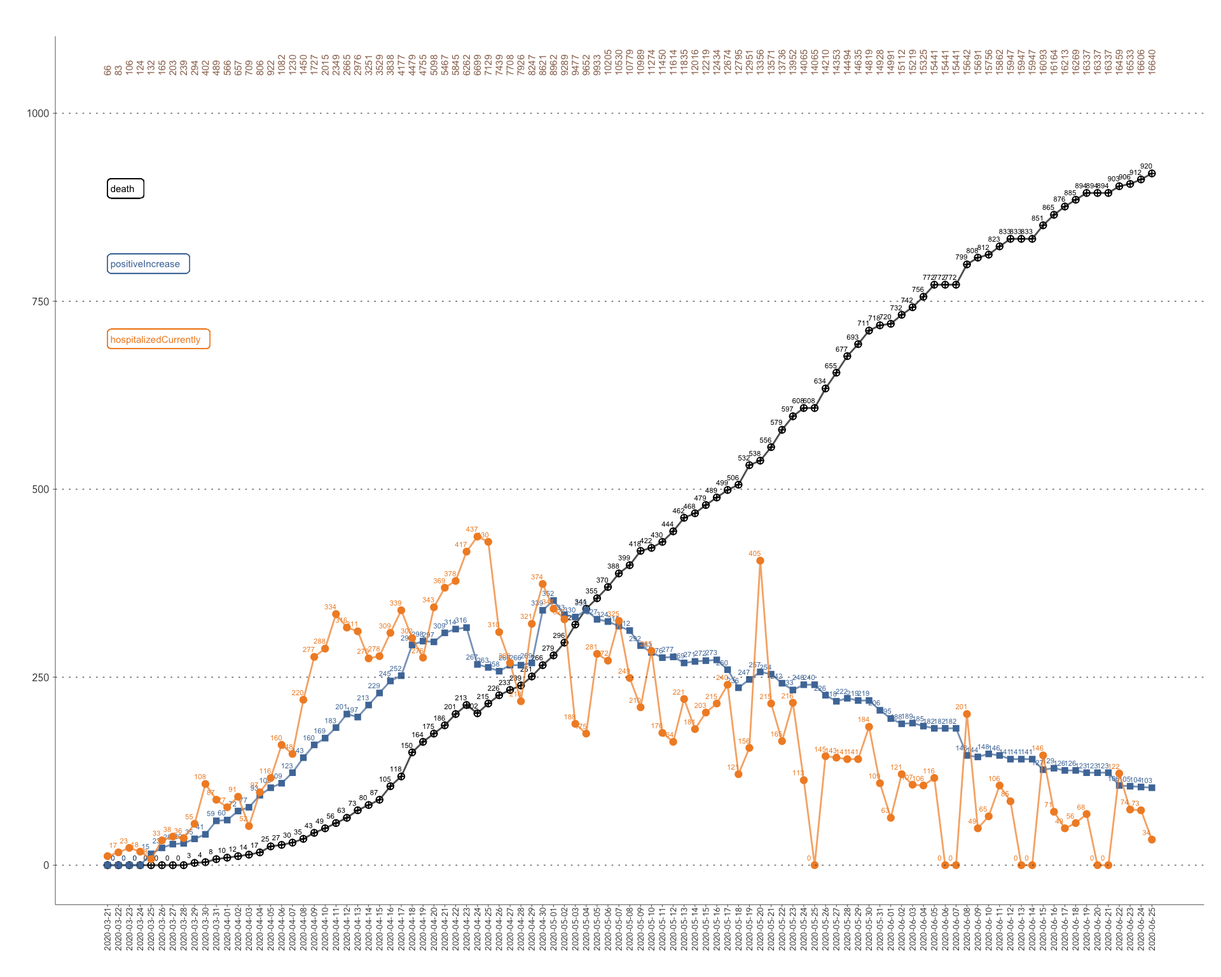
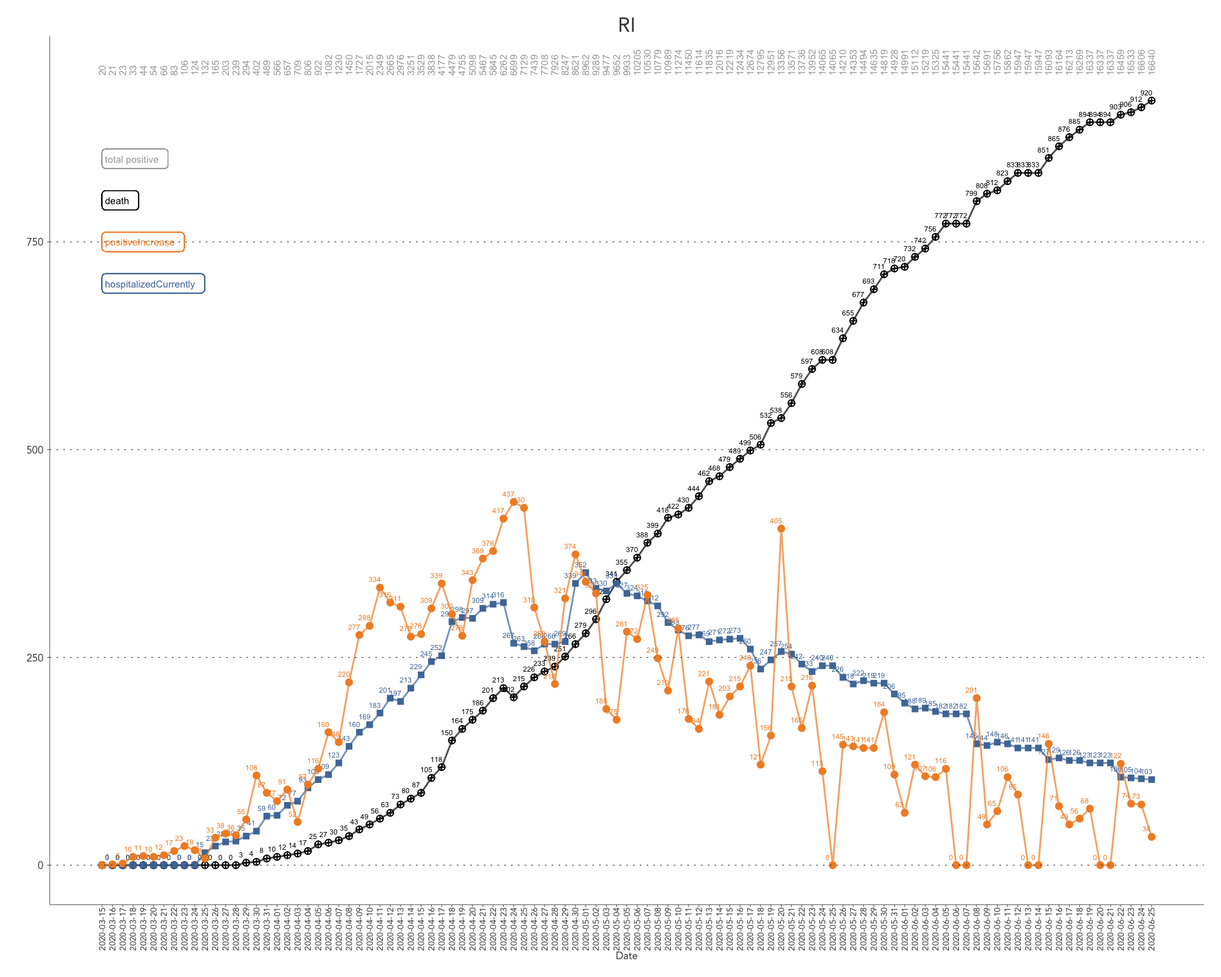
update figures; fixed RI color

diff --git a/covid19-vis.html b/covid19-vis.html
@@ -127,10 +127,10 @@ $(document).ready(function () {
       <li><a href="#us---all-states">US - all states</a></li>
       <li><a href="#us---positiveincrease-by-state">US - positiveIncrease by state</a></li>
       <li><a href="#us---hospitalizedcurrently-by-state">US - hospitalizedCurrently by state</a></li>
-      <li><a href="#testpositiverate-against-testedpopulationrate">TestPositiveRate against TestedPopulationRate</a></li>
-      <li><a href="#death-per-million">Death per million</a></li>
-      <li><a href="#positive-per-1000">Positive per 1000</a></li>
-      <li><a href="#tested-amount">Tested amount</a></li>
+      <li><a href="#us---testpositiverate-against-testedpopulationrate">US - testPositiveRate against testedPopulationRate</a></li>
+      <li><a href="#us---death-per-10k-by-state">US - death per 10k by state</a></li>
+      <li><a href="#us---positive-per-1k-by-state">US - positive per 1k by state</a></li>
+      <li><a href="#us---tested-amount-by-state">US - tested amount by state</a></li>
       </ul>
     </div>
     
@@ -173,7 +173,7 @@ $(document).ready(function () {
 <span id="cb1-22"><a href="#cb1-22"></a><span class="st">               </span><span class="kw">mutate</span>(<span class="dt">date =</span> <span class="kw">as.Date</span>(<span class="kw">as.character</span>(date), <span class="st">&quot;%Y%m%d&quot;</span>))</span>
 <span id="cb1-23"><a href="#cb1-23"></a></span>
 <span id="cb1-24"><a href="#cb1-24"></a>tableau10 &lt;-<span class="st"> </span><span class="kw">as.list</span>(ggthemes_data[[<span class="st">&quot;tableau&quot;</span>]][[<span class="st">&quot;color-palettes&quot;</span>]][[<span class="st">&quot;regular&quot;</span>]][[<span class="dv">1</span>]][,<span class="dv">2</span>])<span class="op">$</span>value</span>
-<span id="cb1-25"><a href="#cb1-25"></a>first_day &lt;-<span class="st"> </span><span class="kw">as.Date</span>(<span class="st">&quot;2020-03-21&quot;</span>) <span class="co"># to select a dat</span></span>
+<span id="cb1-25"><a href="#cb1-25"></a>first_day &lt;-<span class="st"> </span><span class="kw">as.Date</span>(<span class="st">&quot;2020-03-15&quot;</span>) <span class="co"># to select a dat</span></span>
 <span id="cb1-26"><a href="#cb1-26"></a>today &lt;-<span class="st">  </span><span class="kw">as.Date</span>(<span class="kw">toString</span>(<span class="kw">max</span>(df_states<span class="op">$</span>date)))</span>
 <span id="cb1-27"><a href="#cb1-27"></a>  </span>
 <span id="cb1-28"><a href="#cb1-28"></a><span class="kw">kable</span>(<span class="kw">head</span>(df_states, <span class="dt">n =</span> <span class="dv">3</span>))</span></code></pre></div>
@@ -675,39 +675,42 @@ A
 <h2>Rhode Island (as I live in RI now)</h2>
 <div class="sourceCode" id="cb2"><pre class="sourceCode r"><code class="sourceCode r"><span id="cb2-1"><a href="#cb2-1"></a>df_states <span class="op">%&gt;%</span><span class="st"> </span><span class="kw">filter</span>(state <span class="op">==</span><span class="st"> &quot;RI&quot;</span>) <span class="op">%&gt;%</span></span>
 <span id="cb2-2"><a href="#cb2-2"></a><span class="st">    </span><span class="kw">ggplot</span>() <span class="op">%&gt;%</span></span>
-<span id="cb2-3"><a href="#cb2-3"></a><span class="st">    </span><span class="op">+</span><span class="st"> </span><span class="kw">geom_label</span>(<span class="dt">x =</span> first_day, <span class="dt">y =</span> <span class="dv">900</span>, <span class="dt">color =</span> <span class="st">&quot;black&quot;</span>, <span class="dt">label =</span> <span class="st">&quot;death&quot;</span>, <span class="dt">size =</span> <span class="dv">2</span>, <span class="dt">hjust =</span> <span class="dv">0</span>) <span class="op">%&gt;%</span></span>
-<span id="cb2-4"><a href="#cb2-4"></a><span class="st">    </span><span class="op">+</span><span class="st"> </span><span class="kw">geom_label</span>(<span class="dt">x =</span> first_day, <span class="dt">y =</span> <span class="dv">800</span>, <span class="dt">color =</span> tableau10[<span class="dv">1</span>], <span class="dt">label =</span> <span class="st">&quot;positiveIncrease&quot;</span>, <span class="dt">size =</span> <span class="dv">2</span>, <span class="dt">hjust =</span> <span class="dv">0</span>) <span class="op">%&gt;%</span></span>
-<span id="cb2-5"><a href="#cb2-5"></a><span class="st">    </span><span class="op">+</span><span class="st"> </span><span class="kw">geom_label</span>(<span class="dt">x =</span> first_day, <span class="dt">y =</span> <span class="dv">700</span>, <span class="dt">color =</span> tableau10[<span class="dv">2</span>], <span class="dt">label =</span> <span class="st">&quot;hospitalizedCurrently&quot;</span>, <span class="dt">size =</span> <span class="dv">2</span>, <span class="dt">hjust =</span> <span class="dv">0</span>) <span class="op">%&gt;%</span></span>
-<span id="cb2-6"><a href="#cb2-6"></a><span class="st">    </span><span class="op">+</span><span class="st"> </span><span class="kw">geom_text</span>(<span class="dt">mapping =</span> <span class="kw">aes</span>(<span class="dt">x =</span> date, <span class="dt">y =</span> <span class="dv">1050</span>, <span class="dt">label =</span> positive), <span class="dt">color =</span> tableau10[<span class="dv">9</span>], <span class="dt">size =</span> <span class="dv">2</span>, <span class="dt">angle =</span> <span class="dv">90</span>, <span class="dt">hjust =</span> <span class="dv">0</span>) <span class="op">%&gt;%</span></span>
-<span id="cb2-7"><a href="#cb2-7"></a><span class="st">    </span><span class="op">+</span><span class="st"> </span><span class="kw">geom_line</span>(<span class="dt">mapping =</span> <span class="kw">aes</span>(<span class="dt">x =</span> date, <span class="dt">y =</span> death), <span class="dt">alpha =</span> <span class="fl">0.7</span>, <span class="dt">color =</span> <span class="st">&quot;black&quot;</span>, <span class="dt">size =</span> LINE_SIZE) <span class="op">%&gt;%</span></span>
-<span id="cb2-8"><a href="#cb2-8"></a><span class="st">    </span><span class="op">+</span><span class="st"> </span><span class="kw">geom_text</span>(<span class="dt">mapping =</span> <span class="kw">aes</span>(<span class="dt">x =</span> date <span class="op">-</span><span class="st"> </span><span class="fl">0.5</span>, <span class="dt">y =</span> death <span class="op">+</span><span class="st"> </span><span class="dv">10</span>, <span class="dt">label =</span> death), <span class="dt">color =</span> <span class="st">&quot;black&quot;</span>, <span class="dt">size =</span> <span class="fl">1.5</span>) <span class="op">%&gt;%</span></span>
-<span id="cb2-9"><a href="#cb2-9"></a><span class="st">    </span><span class="op">+</span><span class="st"> </span><span class="kw">geom_point</span>(<span class="dt">mapping =</span> <span class="kw">aes</span>(<span class="dt">x =</span> date, <span class="dt">y =</span> death), <span class="dt">color =</span> <span class="st">&quot;black&quot;</span>, <span class="dt">shape =</span> <span class="dv">10</span>) <span class="op">%&gt;%</span></span>
-<span id="cb2-10"><a href="#cb2-10"></a><span class="st">    </span><span class="op">+</span><span class="st"> </span><span class="kw">geom_line</span>(<span class="dt">mapping =</span> <span class="kw">aes</span>(<span class="dt">x =</span> date, <span class="dt">y =</span> hospitalizedCurrently), <span class="dt">alpha =</span> <span class="fl">0.7</span>, <span class="dt">color =</span> tableau10[<span class="dv">1</span>], <span class="dt">size =</span> LINE_SIZE) <span class="op">%&gt;%</span></span>
-<span id="cb2-11"><a href="#cb2-11"></a><span class="st">    </span><span class="op">+</span><span class="st"> </span><span class="kw">geom_text</span>(<span class="dt">mapping =</span> <span class="kw">aes</span>(<span class="dt">x =</span> date <span class="op">-</span><span class="st"> </span><span class="fl">0.5</span>, <span class="dt">y =</span> hospitalizedCurrently <span class="op">+</span><span class="st"> </span><span class="dv">10</span>, <span class="dt">label =</span> hospitalizedCurrently), <span class="dt">color =</span>  tableau10[<span class="dv">1</span>], <span class="dt">size =</span> <span class="fl">1.5</span>) <span class="op">%&gt;%</span></span>
-<span id="cb2-12"><a href="#cb2-12"></a><span class="st">    </span><span class="op">+</span><span class="st"> </span><span class="kw">geom_point</span>(<span class="dt">mapping =</span> <span class="kw">aes</span>(<span class="dt">x =</span> date, <span class="dt">y =</span> hospitalizedCurrently), <span class="dt">color =</span> tableau10[<span class="dv">1</span>], <span class="dt">shape =</span> <span class="dv">15</span>) <span class="op">%&gt;%</span></span>
-<span id="cb2-13"><a href="#cb2-13"></a><span class="st">    </span><span class="op">+</span><span class="st"> </span><span class="kw">geom_line</span>(<span class="dt">mapping =</span> <span class="kw">aes</span>(<span class="dt">x =</span> date, <span class="dt">y =</span> positiveIncrease), <span class="dt">alpha =</span> <span class="fl">0.7</span>, <span class="dt">color =</span> tableau10[<span class="dv">2</span>], <span class="dt">size =</span> LINE_SIZE) <span class="op">%&gt;%</span></span>
-<span id="cb2-14"><a href="#cb2-14"></a><span class="st">    </span><span class="op">+</span><span class="st"> </span><span class="kw">geom_text</span>(<span class="dt">mapping =</span> <span class="kw">aes</span>(<span class="dt">x =</span> date <span class="op">-</span><span class="st"> </span><span class="fl">0.5</span>, <span class="dt">y =</span> positiveIncrease <span class="op">+</span><span class="st"> </span><span class="dv">10</span>, <span class="dt">label =</span> positiveIncrease), <span class="dt">color =</span>  tableau10[<span class="dv">2</span>], <span class="dt">size =</span> <span class="fl">1.5</span>) <span class="op">%&gt;%</span></span>
-<span id="cb2-15"><a href="#cb2-15"></a><span class="st">    </span><span class="op">+</span><span class="st"> </span><span class="kw">geom_point</span>(<span class="dt">mapping =</span> <span class="kw">aes</span>(<span class="dt">x =</span> date, <span class="dt">y =</span> positiveIncrease), <span class="dt">color =</span> tableau10[<span class="dv">2</span>]) <span class="op">%&gt;%</span></span>
-<span id="cb2-16"><a href="#cb2-16"></a><span class="st">    </span><span class="op">+</span><span class="st"> </span><span class="kw">scale_x_date</span>(<span class="dt">limits =</span> <span class="kw">c</span>(first_day, today), <span class="dt">breaks =</span> <span class="kw">seq</span>(first_day, today, <span class="dt">by =</span> <span class="st">&quot;day&quot;</span>)) <span class="op">%&gt;%</span></span>
-<span id="cb2-17"><a href="#cb2-17"></a><span class="st">    </span><span class="op">+</span><span class="st"> </span><span class="kw">xlab</span>(<span class="st">&quot;Date&quot;</span>) <span class="op">+</span><span class="st"> </span><span class="kw">ylab</span>(<span class="st">&quot;&quot;</span>) <span class="op">+</span><span class="st"> </span><span class="kw">ggtitle</span>(<span class="st">&quot;RI&quot;</span>)</span></code></pre></div>
+<span id="cb2-3"><a href="#cb2-3"></a><span class="st">    </span><span class="op">+</span><span class="st"> </span><span class="kw">geom_label</span>(<span class="dt">x =</span> first_day, <span class="dt">y =</span> <span class="dv">850</span>, <span class="dt">color =</span> <span class="st">&quot;darkgray&quot;</span>, <span class="dt">label =</span> <span class="st">&quot;total positive&quot;</span>, <span class="dt">size =</span> <span class="dv">2</span>, <span class="dt">hjust =</span> <span class="dv">0</span>) <span class="op">%&gt;%</span></span>
+<span id="cb2-4"><a href="#cb2-4"></a><span class="st">    </span><span class="op">+</span><span class="st"> </span><span class="kw">geom_text</span>(<span class="dt">mapping =</span> <span class="kw">aes</span>(<span class="dt">x =</span> date, <span class="dt">y =</span> <span class="dv">950</span>, <span class="dt">label =</span> positive), <span class="dt">color =</span> <span class="st">&quot;darkgray&quot;</span>, <span class="dt">size =</span> <span class="dv">2</span>, <span class="dt">angle =</span> <span class="dv">90</span>, <span class="dt">hjust =</span> <span class="dv">0</span>) <span class="op">%&gt;%</span></span>
+<span id="cb2-5"><a href="#cb2-5"></a><span class="st">    </span><span class="op">+</span><span class="st"> </span><span class="kw">geom_label</span>(<span class="dt">x =</span> first_day, <span class="dt">y =</span> <span class="dv">800</span>, <span class="dt">color =</span> <span class="st">&quot;black&quot;</span>, <span class="dt">label =</span> <span class="st">&quot;death&quot;</span>, <span class="dt">size =</span> <span class="dv">2</span>, <span class="dt">hjust =</span> <span class="dv">0</span>) <span class="op">%&gt;%</span></span>
+<span id="cb2-6"><a href="#cb2-6"></a><span class="st">    </span><span class="op">+</span><span class="st"> </span><span class="kw">geom_label</span>(<span class="dt">x =</span> first_day, <span class="dt">y =</span> <span class="dv">750</span>, <span class="dt">color =</span> tableau10[<span class="dv">2</span>], <span class="dt">label =</span> <span class="st">&quot;positiveIncrease&quot;</span>, <span class="dt">size =</span> <span class="dv">2</span>, <span class="dt">hjust =</span> <span class="dv">0</span>) <span class="op">%&gt;%</span></span>
+<span id="cb2-7"><a href="#cb2-7"></a><span class="st">    </span><span class="op">+</span><span class="st"> </span><span class="kw">geom_label</span>(<span class="dt">x =</span> first_day, <span class="dt">y =</span> <span class="dv">700</span>, <span class="dt">color =</span> tableau10[<span class="dv">1</span>], <span class="dt">label =</span> <span class="st">&quot;hospitalizedCurrently&quot;</span>, <span class="dt">size =</span> <span class="dv">2</span>, <span class="dt">hjust =</span> <span class="dv">0</span>) <span class="op">%&gt;%</span></span>
+<span id="cb2-8"><a href="#cb2-8"></a><span class="st">    </span><span class="op">+</span><span class="st"> </span><span class="kw">geom_line</span>(<span class="dt">mapping =</span> <span class="kw">aes</span>(<span class="dt">x =</span> date, <span class="dt">y =</span> death), <span class="dt">alpha =</span> <span class="fl">0.7</span>, <span class="dt">color =</span> <span class="st">&quot;black&quot;</span>, <span class="dt">size =</span> LINE_SIZE) <span class="op">%&gt;%</span></span>
+<span id="cb2-9"><a href="#cb2-9"></a><span class="st">    </span><span class="op">+</span><span class="st"> </span><span class="kw">geom_text</span>(<span class="dt">mapping =</span> <span class="kw">aes</span>(<span class="dt">x =</span> date <span class="op">-</span><span class="st"> </span><span class="fl">0.5</span>, <span class="dt">y =</span> death <span class="op">+</span><span class="st"> </span><span class="dv">10</span>, <span class="dt">label =</span> death), <span class="dt">color =</span> <span class="st">&quot;black&quot;</span>, <span class="dt">size =</span> <span class="fl">1.5</span>) <span class="op">%&gt;%</span></span>
+<span id="cb2-10"><a href="#cb2-10"></a><span class="st">    </span><span class="op">+</span><span class="st"> </span><span class="kw">geom_point</span>(<span class="dt">mapping =</span> <span class="kw">aes</span>(<span class="dt">x =</span> date, <span class="dt">y =</span> death), <span class="dt">color =</span> <span class="st">&quot;black&quot;</span>, <span class="dt">shape =</span> <span class="dv">10</span>) <span class="op">%&gt;%</span></span>
+<span id="cb2-11"><a href="#cb2-11"></a><span class="st">    </span><span class="op">+</span><span class="st"> </span><span class="kw">geom_line</span>(<span class="dt">mapping =</span> <span class="kw">aes</span>(<span class="dt">x =</span> date, <span class="dt">y =</span> hospitalizedCurrently), <span class="dt">alpha =</span> <span class="fl">0.7</span>, <span class="dt">color =</span> tableau10[<span class="dv">1</span>], <span class="dt">size =</span> LINE_SIZE) <span class="op">%&gt;%</span></span>
+<span id="cb2-12"><a href="#cb2-12"></a><span class="st">    </span><span class="op">+</span><span class="st"> </span><span class="kw">geom_text</span>(<span class="dt">mapping =</span> <span class="kw">aes</span>(<span class="dt">x =</span> date <span class="op">-</span><span class="st"> </span><span class="fl">0.5</span>, <span class="dt">y =</span> hospitalizedCurrently <span class="op">+</span><span class="st"> </span><span class="dv">10</span>, <span class="dt">label =</span> hospitalizedCurrently), <span class="dt">color =</span>  tableau10[<span class="dv">1</span>], <span class="dt">size =</span> <span class="fl">1.5</span>) <span class="op">%&gt;%</span></span>
+<span id="cb2-13"><a href="#cb2-13"></a><span class="st">    </span><span class="op">+</span><span class="st"> </span><span class="kw">geom_point</span>(<span class="dt">mapping =</span> <span class="kw">aes</span>(<span class="dt">x =</span> date, <span class="dt">y =</span> hospitalizedCurrently), <span class="dt">color =</span> tableau10[<span class="dv">1</span>], <span class="dt">shape =</span> <span class="dv">15</span>) <span class="op">%&gt;%</span></span>
+<span id="cb2-14"><a href="#cb2-14"></a><span class="st">    </span><span class="op">+</span><span class="st"> </span><span class="kw">geom_line</span>(<span class="dt">mapping =</span> <span class="kw">aes</span>(<span class="dt">x =</span> date, <span class="dt">y =</span> positiveIncrease), <span class="dt">alpha =</span> <span class="fl">0.7</span>, <span class="dt">color =</span> tableau10[<span class="dv">2</span>], <span class="dt">size =</span> LINE_SIZE) <span class="op">%&gt;%</span></span>
+<span id="cb2-15"><a href="#cb2-15"></a><span class="st">    </span><span class="op">+</span><span class="st"> </span><span class="kw">geom_text</span>(<span class="dt">mapping =</span> <span class="kw">aes</span>(<span class="dt">x =</span> date <span class="op">-</span><span class="st"> </span><span class="fl">0.5</span>, <span class="dt">y =</span> positiveIncrease <span class="op">+</span><span class="st"> </span><span class="dv">10</span>, <span class="dt">label =</span> positiveIncrease), <span class="dt">color =</span>  tableau10[<span class="dv">2</span>], <span class="dt">size =</span> <span class="fl">1.5</span>) <span class="op">%&gt;%</span></span>
+<span id="cb2-16"><a href="#cb2-16"></a><span class="st">    </span><span class="op">+</span><span class="st"> </span><span class="kw">geom_point</span>(<span class="dt">mapping =</span> <span class="kw">aes</span>(<span class="dt">x =</span> date, <span class="dt">y =</span> positiveIncrease), <span class="dt">color =</span> tableau10[<span class="dv">2</span>]) <span class="op">%&gt;%</span></span>
+<span id="cb2-17"><a href="#cb2-17"></a><span class="st">    </span><span class="op">+</span><span class="st"> </span><span class="kw">scale_x_date</span>(<span class="dt">limits =</span> <span class="kw">c</span>(first_day, today), <span class="dt">breaks =</span> <span class="kw">seq</span>(first_day, today, <span class="dt">by =</span> <span class="st">&quot;day&quot;</span>)) <span class="op">%&gt;%</span></span>
+<span id="cb2-18"><a href="#cb2-18"></a><span class="st">    </span><span class="op">+</span><span class="st"> </span><span class="kw">xlab</span>(<span class="st">&quot;Date&quot;</span>) <span class="op">+</span><span class="st"> </span><span class="kw">ylab</span>(<span class="st">&quot;&quot;</span>) <span class="op">+</span><span class="st"> </span><span class="kw">ggtitle</span>(<span class="st">&quot;RI&quot;</span>)</span></code></pre></div>
 <p><img src="covid19-vis_files/figure-html/unnamed-chunk-3-1.png" width="960" /></p>
 </div>
 <div id="us---all-states" class="section level2">
 <h2>US - all states</h2>
 <div class="sourceCode" id="cb3"><pre class="sourceCode r"><code class="sourceCode r"><span id="cb3-1"><a href="#cb3-1"></a>df_states <span class="op">%&gt;%</span><span class="st"> </span><span class="kw">group_by</span>(date) <span class="op">%&gt;%</span></span>
-<span id="cb3-2"><a href="#cb3-2"></a><span class="st">    </span><span class="kw">summarise</span>(<span class="dt">positiveIncrease =</span> <span class="kw">sum</span>(positiveIncrease), <span class="dt">hospitalizedCurrently =</span> <span class="kw">sum</span>(hospitalizedCurrently)) <span class="op">%&gt;%</span><span class="st"> </span></span>
+<span id="cb3-2"><a href="#cb3-2"></a><span class="st">    </span><span class="kw">summarise</span>(<span class="dt">positiveIncrease =</span> <span class="kw">sum</span>(positiveIncrease), <span class="dt">hospitalizedCurrently =</span> <span class="kw">sum</span>(hospitalizedCurrently), <span class="dt">total =</span> <span class="kw">sum</span>(positive)) <span class="op">%&gt;%</span><span class="st"> </span></span>
 <span id="cb3-3"><a href="#cb3-3"></a><span class="st">    </span><span class="kw">ungroup</span>() <span class="op">%&gt;%</span></span>
 <span id="cb3-4"><a href="#cb3-4"></a><span class="st">    </span><span class="kw">ggplot</span>() <span class="op">%&gt;%</span></span>
-<span id="cb3-5"><a href="#cb3-5"></a><span class="st">    </span><span class="op">+</span><span class="st"> </span><span class="kw">geom_label</span>(<span class="dt">x =</span> first_day, <span class="dt">y =</span> <span class="dv">50000</span>, <span class="dt">color =</span> tableau10[<span class="dv">1</span>], <span class="dt">label =</span> <span class="st">&quot;hospitalizedCurrently&quot;</span>, <span class="dt">size =</span> <span class="dv">2</span>, <span class="dt">hjust =</span> <span class="dv">0</span>) <span class="op">%&gt;%</span></span>
-<span id="cb3-6"><a href="#cb3-6"></a><span class="st">    </span><span class="op">+</span><span class="st"> </span><span class="kw">geom_label</span>(<span class="dt">x =</span> first_day, <span class="dt">y =</span> <span class="dv">55000</span>, <span class="dt">color =</span> tableau10[<span class="dv">2</span>], <span class="dt">label =</span> <span class="st">&quot;positiveIncrease&quot;</span>, <span class="dt">size =</span> <span class="dv">2</span>, <span class="dt">hjust =</span> <span class="dv">0</span>) <span class="op">%&gt;%</span></span>
-<span id="cb3-7"><a href="#cb3-7"></a><span class="st">    </span><span class="op">+</span><span class="st"> </span><span class="kw">geom_line</span>(<span class="dt">mapping =</span> <span class="kw">aes</span>(<span class="dt">x =</span> date, <span class="dt">y =</span> hospitalizedCurrently), <span class="dt">alpha =</span> <span class="fl">0.7</span>, <span class="dt">color =</span> tableau10[<span class="dv">1</span>], <span class="dt">size =</span> LINE_SIZE) <span class="op">%&gt;%</span></span>
-<span id="cb3-8"><a href="#cb3-8"></a><span class="st">    </span><span class="op">+</span><span class="st"> </span><span class="kw">geom_text</span>(<span class="dt">mapping =</span> <span class="kw">aes</span>(<span class="dt">x =</span> date <span class="op">-</span><span class="st"> </span><span class="fl">0.5</span>, <span class="dt">y =</span> hospitalizedCurrently <span class="op">+</span><span class="st"> </span><span class="dv">1000</span>, <span class="dt">label =</span> hospitalizedCurrently), <span class="dt">color =</span>  tableau10[<span class="dv">1</span>], <span class="dt">size =</span> <span class="fl">1.5</span>) <span class="op">%&gt;%</span></span>
-<span id="cb3-9"><a href="#cb3-9"></a><span class="st">    </span><span class="op">+</span><span class="st"> </span><span class="kw">geom_point</span>(<span class="dt">mapping =</span> <span class="kw">aes</span>(<span class="dt">x =</span> date, <span class="dt">y =</span> hospitalizedCurrently), <span class="dt">color =</span> tableau10[<span class="dv">1</span>], <span class="dt">shape =</span> <span class="dv">15</span>) <span class="op">%&gt;%</span></span>
-<span id="cb3-10"><a href="#cb3-10"></a><span class="st">    </span><span class="op">+</span><span class="st"> </span><span class="kw">geom_line</span>(<span class="dt">mapping =</span> <span class="kw">aes</span>(<span class="dt">x =</span> date, <span class="dt">y =</span> positiveIncrease), <span class="dt">alpha =</span> <span class="fl">0.7</span>, <span class="dt">color =</span> tableau10[<span class="dv">2</span>], <span class="dt">size =</span> LINE_SIZE) <span class="op">%&gt;%</span></span>
-<span id="cb3-11"><a href="#cb3-11"></a><span class="st">    </span><span class="op">+</span><span class="st"> </span><span class="kw">geom_text</span>(<span class="dt">mapping =</span> <span class="kw">aes</span>(<span class="dt">x =</span> date <span class="op">-</span><span class="st"> </span><span class="fl">0.5</span>, <span class="dt">y =</span> positiveIncrease <span class="op">+</span><span class="st"> </span><span class="dv">1000</span>, <span class="dt">label =</span> positiveIncrease), <span class="dt">color =</span>  tableau10[<span class="dv">2</span>], <span class="dt">size =</span> <span class="fl">1.5</span>) <span class="op">%&gt;%</span></span>
-<span id="cb3-12"><a href="#cb3-12"></a><span class="st">    </span><span class="op">+</span><span class="st"> </span><span class="kw">geom_point</span>(<span class="dt">mapping =</span> <span class="kw">aes</span>(<span class="dt">x =</span> date, <span class="dt">y =</span> positiveIncrease), <span class="dt">color =</span> tableau10[<span class="dv">2</span>]) <span class="op">%&gt;%</span></span>
-<span id="cb3-13"><a href="#cb3-13"></a><span class="st">    </span><span class="op">+</span><span class="st"> </span><span class="kw">scale_x_date</span>(<span class="dt">limits =</span> <span class="kw">c</span>(first_day, today), <span class="dt">breaks =</span> <span class="kw">seq</span>(first_day, today, <span class="dt">by =</span> <span class="st">&quot;day&quot;</span>)) <span class="op">%&gt;%</span></span>
-<span id="cb3-14"><a href="#cb3-14"></a><span class="st">    </span><span class="op">+</span><span class="st"> </span><span class="kw">xlab</span>(<span class="st">&quot;Date&quot;</span>) <span class="op">+</span><span class="st"> </span><span class="kw">ylab</span>(<span class="st">&quot;&quot;</span>) <span class="op">+</span><span class="st"> </span><span class="kw">ggtitle</span>(<span class="st">&quot;US - positiveIncrease &amp; hospitalizedCurrently&quot;</span>)</span></code></pre></div>
+<span id="cb3-5"><a href="#cb3-5"></a><span class="st">    </span><span class="op">+</span><span class="st"> </span><span class="kw">geom_label</span>(<span class="dt">x =</span> first_day, <span class="dt">y =</span> <span class="dv">60000</span>, <span class="dt">color =</span> <span class="st">&quot;darkgray&quot;</span>, <span class="dt">label =</span> <span class="st">&quot;total positive: &quot;</span>, <span class="dt">size =</span> <span class="dv">2</span>, <span class="dt">hjust =</span> <span class="dv">0</span>) <span class="op">%&gt;%</span></span>
+<span id="cb3-6"><a href="#cb3-6"></a><span class="st">    </span><span class="op">+</span><span class="st"> </span><span class="kw">geom_text</span>(<span class="dt">mapping =</span> <span class="kw">aes</span>(<span class="dt">x =</span> date, <span class="dt">y =</span> <span class="dv">63000</span>, <span class="dt">label =</span> total), <span class="dt">color =</span> <span class="st">&quot;darkgray&quot;</span>, <span class="dt">size =</span> <span class="dv">2</span>, <span class="dt">angle =</span> <span class="dv">90</span>, <span class="dt">hjust =</span> <span class="dv">0</span>) <span class="op">%&gt;%</span></span>
+<span id="cb3-7"><a href="#cb3-7"></a><span class="st">    </span><span class="op">+</span><span class="st"> </span><span class="kw">geom_label</span>(<span class="dt">x =</span> first_day, <span class="dt">y =</span> <span class="dv">50000</span>, <span class="dt">color =</span> tableau10[<span class="dv">1</span>], <span class="dt">label =</span> <span class="st">&quot;hospitalizedCurrently&quot;</span>, <span class="dt">size =</span> <span class="dv">2</span>, <span class="dt">hjust =</span> <span class="dv">0</span>) <span class="op">%&gt;%</span></span>
+<span id="cb3-8"><a href="#cb3-8"></a><span class="st">    </span><span class="op">+</span><span class="st"> </span><span class="kw">geom_label</span>(<span class="dt">x =</span> first_day, <span class="dt">y =</span> <span class="dv">55000</span>, <span class="dt">color =</span> tableau10[<span class="dv">2</span>], <span class="dt">label =</span> <span class="st">&quot;positiveIncrease&quot;</span>, <span class="dt">size =</span> <span class="dv">2</span>, <span class="dt">hjust =</span> <span class="dv">0</span>) <span class="op">%&gt;%</span></span>
+<span id="cb3-9"><a href="#cb3-9"></a><span class="st">    </span><span class="op">+</span><span class="st"> </span><span class="kw">geom_line</span>(<span class="dt">mapping =</span> <span class="kw">aes</span>(<span class="dt">x =</span> date, <span class="dt">y =</span> hospitalizedCurrently), <span class="dt">alpha =</span> <span class="fl">0.7</span>, <span class="dt">color =</span> tableau10[<span class="dv">1</span>], <span class="dt">size =</span> LINE_SIZE) <span class="op">%&gt;%</span></span>
+<span id="cb3-10"><a href="#cb3-10"></a><span class="st">    </span><span class="op">+</span><span class="st"> </span><span class="kw">geom_text</span>(<span class="dt">mapping =</span> <span class="kw">aes</span>(<span class="dt">x =</span> date <span class="op">-</span><span class="st"> </span><span class="fl">0.5</span>, <span class="dt">y =</span> hospitalizedCurrently <span class="op">+</span><span class="st"> </span><span class="dv">1000</span>, <span class="dt">label =</span> hospitalizedCurrently), <span class="dt">color =</span>  tableau10[<span class="dv">1</span>], <span class="dt">size =</span> <span class="fl">1.5</span>) <span class="op">%&gt;%</span></span>
+<span id="cb3-11"><a href="#cb3-11"></a><span class="st">    </span><span class="op">+</span><span class="st"> </span><span class="kw">geom_point</span>(<span class="dt">mapping =</span> <span class="kw">aes</span>(<span class="dt">x =</span> date, <span class="dt">y =</span> hospitalizedCurrently), <span class="dt">color =</span> tableau10[<span class="dv">1</span>], <span class="dt">shape =</span> <span class="dv">15</span>) <span class="op">%&gt;%</span></span>
+<span id="cb3-12"><a href="#cb3-12"></a><span class="st">    </span><span class="op">+</span><span class="st"> </span><span class="kw">geom_line</span>(<span class="dt">mapping =</span> <span class="kw">aes</span>(<span class="dt">x =</span> date, <span class="dt">y =</span> positiveIncrease), <span class="dt">alpha =</span> <span class="fl">0.7</span>, <span class="dt">color =</span> tableau10[<span class="dv">2</span>], <span class="dt">size =</span> LINE_SIZE) <span class="op">%&gt;%</span></span>
+<span id="cb3-13"><a href="#cb3-13"></a><span class="st">    </span><span class="op">+</span><span class="st"> </span><span class="kw">geom_text</span>(<span class="dt">mapping =</span> <span class="kw">aes</span>(<span class="dt">x =</span> date <span class="op">-</span><span class="st"> </span><span class="fl">0.5</span>, <span class="dt">y =</span> positiveIncrease <span class="op">+</span><span class="st"> </span><span class="dv">1000</span>, <span class="dt">label =</span> positiveIncrease), <span class="dt">color =</span>  tableau10[<span class="dv">2</span>], <span class="dt">size =</span> <span class="fl">1.5</span>) <span class="op">%&gt;%</span></span>
+<span id="cb3-14"><a href="#cb3-14"></a><span class="st">    </span><span class="op">+</span><span class="st"> </span><span class="kw">geom_point</span>(<span class="dt">mapping =</span> <span class="kw">aes</span>(<span class="dt">x =</span> date, <span class="dt">y =</span> positiveIncrease), <span class="dt">color =</span> tableau10[<span class="dv">2</span>]) <span class="op">%&gt;%</span></span>
+<span id="cb3-15"><a href="#cb3-15"></a><span class="st">    </span><span class="op">+</span><span class="st"> </span><span class="kw">scale_x_date</span>(<span class="dt">limits =</span> <span class="kw">c</span>(first_day, today), <span class="dt">breaks =</span> <span class="kw">seq</span>(first_day, today, <span class="dt">by =</span> <span class="st">&quot;day&quot;</span>)) <span class="op">%&gt;%</span></span>
+<span id="cb3-16"><a href="#cb3-16"></a><span class="st">    </span><span class="op">+</span><span class="st"> </span><span class="kw">xlab</span>(<span class="st">&quot;Date&quot;</span>) <span class="op">+</span><span class="st"> </span><span class="kw">ylab</span>(<span class="st">&quot;&quot;</span>) <span class="op">+</span><span class="st"> </span><span class="kw">ggtitle</span>(<span class="st">&quot;US - positiveIncrease &amp; hospitalizedCurrently&quot;</span>)</span></code></pre></div>
 <p><img src="covid19-vis_files/figure-html/unnamed-chunk-4-1.png" width="960" /></p>
 </div>
 <div id="us---positiveincrease-by-state" class="section level2">
@@ -755,8 +758,8 @@ A
 <span id="cb5-8"><a href="#cb5-8"></a><span class="st">    </span><span class="op">+</span><span class="st"> </span><span class="kw">xlab</span>(<span class="st">&quot;Date&quot;</span>) <span class="op">+</span><span class="st"> </span><span class="kw">ylab</span>(<span class="st">&quot;&quot;</span>) <span class="op">+</span><span class="st"> </span><span class="kw">ggtitle</span>(<span class="st">&quot;US - hospitalizedCurrently by state&quot;</span>)</span></code></pre></div>
 <p><img src="covid19-vis_files/figure-html/unnamed-chunk-6-1.png" width="1440" /></p>
 </div>
-<div id="testpositiverate-against-testedpopulationrate" class="section level2">
-<h2>TestPositiveRate against TestedPopulationRate</h2>
+<div id="us---testpositiverate-against-testedpopulationrate" class="section level2">
+<h2>US - testPositiveRate against testedPopulationRate</h2>
 <div class="sourceCode" id="cb6"><pre class="sourceCode r"><code class="sourceCode r"><span id="cb6-1"><a href="#cb6-1"></a>df_states <span class="op">%&gt;%</span><span class="st"> </span></span>
 <span id="cb6-2"><a href="#cb6-2"></a><span class="st">    </span><span class="kw">mutate</span>(<span class="dt">testPositiveRate =</span> positiveIncrease <span class="op">/</span><span class="st"> </span>totalTestResultsIncrease, <span class="dt">testedPopulationRate =</span> totalTestResults <span class="op">/</span><span class="st"> </span>population) <span class="op">%&gt;%</span></span>
 <span id="cb6-3"><a href="#cb6-3"></a><span class="st">    </span><span class="kw">ggplot</span>() <span class="op">%&gt;%</span></span>
@@ -769,21 +772,21 @@ A
 <span id="cb6-10"><a href="#cb6-10"></a><span class="st">    </span><span class="op">+</span><span class="st"> </span><span class="kw">xlab</span>(<span class="st">&quot;testPositiveRate&quot;</span>) <span class="op">+</span><span class="st"> </span><span class="kw">ylab</span>(<span class="st">&quot;testedPopulationRate&quot;</span>) <span class="op">+</span><span class="st"> </span><span class="kw">ggtitle</span>(<span class="st">&quot;US - testPositiveRate against testedPopulationRate&quot;</span>)</span></code></pre></div>
 <p><img src="covid19-vis_files/figure-html/unnamed-chunk-7-1.png" width="1440" /></p>
 </div>
-<div id="death-per-million" class="section level2">
-<h2>Death per million</h2>
+<div id="us---death-per-10k-by-state" class="section level2">
+<h2>US - death per 10k by state</h2>
 <div class="sourceCode" id="cb7"><pre class="sourceCode r"><code class="sourceCode r"><span id="cb7-1"><a href="#cb7-1"></a>df_states <span class="op">%&gt;%</span><span class="st"> </span></span>
-<span id="cb7-2"><a href="#cb7-2"></a><span class="st">    </span><span class="kw">mutate</span>(<span class="dt">deathPerMillion =</span> death <span class="op">/</span><span class="st"> </span>population <span class="op">*</span><span class="st"> </span><span class="dv">10000</span>) <span class="op">%&gt;%</span></span>
+<span id="cb7-2"><a href="#cb7-2"></a><span class="st">    </span><span class="kw">mutate</span>(<span class="dt">deathPer10K =</span> death <span class="op">/</span><span class="st"> </span>population <span class="op">*</span><span class="st"> </span><span class="dv">10000</span>) <span class="op">%&gt;%</span></span>
 <span id="cb7-3"><a href="#cb7-3"></a><span class="st">    </span><span class="kw">ggplot</span>() <span class="op">%&gt;%</span></span>
-<span id="cb7-4"><a href="#cb7-4"></a><span class="st">    </span><span class="op">+</span><span class="st"> </span><span class="kw">geom_line</span>(<span class="dt">mapping =</span> <span class="kw">aes</span>(<span class="dt">x =</span> date, <span class="dt">y =</span> deathPerMillion), <span class="dt">alpha =</span> <span class="fl">0.7</span>, <span class="dt">color =</span> tableau10[<span class="dv">3</span>], <span class="dt">size =</span> LINE_SIZE) <span class="op">%&gt;%</span></span>
-<span id="cb7-5"><a href="#cb7-5"></a><span class="st">    </span><span class="op">+</span><span class="st"> </span><span class="kw">geom_point</span>(<span class="dt">mapping =</span> <span class="kw">aes</span>(<span class="dt">x =</span> date, <span class="dt">y =</span> deathPerMillion), <span class="dt">color =</span> tableau10[<span class="dv">3</span>], <span class="dt">size =</span> <span class="dv">1</span>) <span class="op">%&gt;%</span></span>
+<span id="cb7-4"><a href="#cb7-4"></a><span class="st">    </span><span class="op">+</span><span class="st"> </span><span class="kw">geom_line</span>(<span class="dt">mapping =</span> <span class="kw">aes</span>(<span class="dt">x =</span> date, <span class="dt">y =</span> deathPer10K), <span class="dt">alpha =</span> <span class="fl">0.7</span>, <span class="dt">color =</span> tableau10[<span class="dv">3</span>], <span class="dt">size =</span> LINE_SIZE) <span class="op">%&gt;%</span></span>
+<span id="cb7-5"><a href="#cb7-5"></a><span class="st">    </span><span class="op">+</span><span class="st"> </span><span class="kw">geom_point</span>(<span class="dt">mapping =</span> <span class="kw">aes</span>(<span class="dt">x =</span> date, <span class="dt">y =</span> deathPer10K), <span class="dt">color =</span> tableau10[<span class="dv">3</span>], <span class="dt">size =</span> <span class="dv">1</span>) <span class="op">%&gt;%</span></span>
 <span id="cb7-6"><a href="#cb7-6"></a><span class="st">    </span><span class="op">+</span><span class="st"> </span><span class="kw">scale_x_date</span>(<span class="dt">limits =</span> <span class="kw">c</span>(first_day, today), <span class="dt">breaks =</span> <span class="kw">seq</span>(first_day, today, <span class="dt">by =</span> <span class="st">&quot;week&quot;</span>)) <span class="op">%&gt;%</span></span>
-<span id="cb7-7"><a href="#cb7-7"></a><span class="st">    </span><span class="op">+</span><span class="st"> </span><span class="kw">scale_y_continuous</span>(<span class="dt">limits =</span> <span class="kw">c</span>(<span class="dv">0</span>, <span class="dv">15</span>), <span class="dt">breaks =</span> <span class="kw">seq</span>(<span class="dv">0</span>, <span class="dv">15</span>, <span class="dt">by =</span> <span class="dv">3</span>)) <span class="op">%&gt;%</span></span>
+<span id="cb7-7"><a href="#cb7-7"></a><span class="st">    </span><span class="op">+</span><span class="st"> </span><span class="kw">scale_y_continuous</span>(<span class="dt">limits =</span> <span class="kw">c</span>(<span class="dv">0</span>, <span class="dv">20</span>), <span class="dt">breaks =</span> <span class="kw">seq</span>(<span class="dv">0</span>, <span class="dv">20</span>, <span class="dt">by =</span> <span class="dv">5</span>)) <span class="op">%&gt;%</span></span>
 <span id="cb7-8"><a href="#cb7-8"></a><span class="st">    </span><span class="op">+</span><span class="st"> </span><span class="kw">facet_wrap</span>(state <span class="op">~</span><span class="st"> </span>., <span class="dt">ncol =</span> <span class="dv">6</span>, <span class="dt">scales =</span> <span class="st">&quot;free&quot;</span>)  <span class="op">%&gt;%</span></span>
-<span id="cb7-9"><a href="#cb7-9"></a><span class="st">    </span><span class="op">+</span><span class="st"> </span><span class="kw">xlab</span>(<span class="st">&quot;date&quot;</span>) <span class="op">+</span><span class="st"> </span><span class="kw">ylab</span>(<span class="st">&quot;deathPerMillion %&quot;</span>) <span class="op">+</span><span class="st"> </span><span class="kw">ggtitle</span>(<span class="st">&quot;US - deathPerMillion by state&quot;</span>)</span></code></pre></div>
+<span id="cb7-9"><a href="#cb7-9"></a><span class="st">    </span><span class="op">+</span><span class="st"> </span><span class="kw">xlab</span>(<span class="st">&quot;date&quot;</span>) <span class="op">+</span><span class="st"> </span><span class="kw">ylab</span>(<span class="st">&quot;death per 10k&quot;</span>) <span class="op">+</span><span class="st"> </span><span class="kw">ggtitle</span>(<span class="st">&quot;US - death per 10k by state&quot;</span>)</span></code></pre></div>
 <p><img src="covid19-vis_files/figure-html/unnamed-chunk-8-1.png" width="1440" /></p>
 </div>
-<div id="positive-per-1000" class="section level2">
-<h2>Positive per 1000</h2>
+<div id="us---positive-per-1k-by-state" class="section level2">
+<h2>US - positive per 1k by state</h2>
 <div class="sourceCode" id="cb8"><pre class="sourceCode r"><code class="sourceCode r"><span id="cb8-1"><a href="#cb8-1"></a>df_states <span class="op">%&gt;%</span><span class="st"> </span></span>
 <span id="cb8-2"><a href="#cb8-2"></a><span class="st">    </span><span class="kw">mutate</span>(<span class="dt">positivePerOneK =</span> positive <span class="op">/</span><span class="st"> </span>population <span class="op">*</span><span class="st"> </span><span class="dv">1000</span>) <span class="op">%&gt;%</span></span>
 <span id="cb8-3"><a href="#cb8-3"></a><span class="st">    </span><span class="kw">ggplot</span>() <span class="op">%&gt;%</span></span>
@@ -795,8 +798,8 @@ A
 <span id="cb8-9"><a href="#cb8-9"></a><span class="st">    </span><span class="op">+</span><span class="st"> </span><span class="kw">xlab</span>(<span class="st">&quot;date&quot;</span>) <span class="op">+</span><span class="st"> </span><span class="kw">ylab</span>(<span class="st">&quot;&quot;</span>) <span class="op">+</span><span class="st"> </span><span class="kw">ggtitle</span>(<span class="st">&quot;US - positivePerOneK by state&quot;</span>)</span></code></pre></div>
 <p><img src="covid19-vis_files/figure-html/unnamed-chunk-9-1.png" width="1440" /></p>
 </div>
-<div id="tested-amount" class="section level2">
-<h2>Tested amount</h2>
+<div id="us---tested-amount-by-state" class="section level2">
+<h2>US - tested amount by state</h2>
 <div class="sourceCode" id="cb9"><pre class="sourceCode r"><code class="sourceCode r"><span id="cb9-1"><a href="#cb9-1"></a>df_states <span class="op">%&gt;%</span><span class="st"> </span></span>
 <span id="cb9-2"><a href="#cb9-2"></a><span class="st">    </span><span class="kw">mutate</span>(<span class="dt">testResultsIncrease =</span> positiveIncrease <span class="op">+</span><span class="st"> </span>negativeIncrease) <span class="op">%&gt;%</span></span>
 <span id="cb9-3"><a href="#cb9-3"></a><span class="st">    </span><span class="kw">ggplot</span>() <span class="op">%&gt;%</span></span>
